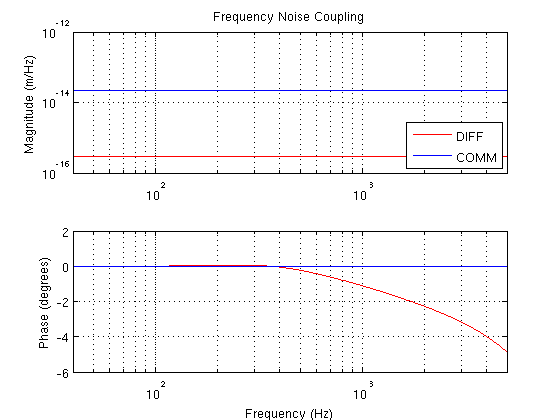
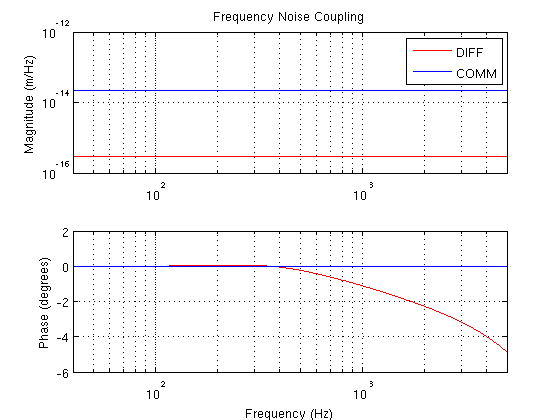
change location of legend in example.

Changed region(s): [[0.7286, 0.3714, 0.9107, 0.4024], [0.8196, 0.1548, 0.9107, 0.1857], [0.8196, 0.3095, 0.85, 0.3405]]

diff --git a/examples/html/exampleMICH.html b/examples/html/exampleMICH.html
@@ -156,7 +156,7 @@ subplot(2,1,1)
 loglog(f,abs(FMtoDIFF),<span class="string">'r'</span>,f,abs(FMtoCOMM),<span class="string">'b'</span>);
 title(<span class="string">'Frequency Noise Coupling'</span>)
 ylabel(<span class="string">'Magnitude (m/Hz)'</span>)
-legend(<span class="string">'DIFF'</span>,<span class="string">'COMM'</span>,<span class="string">'Location'</span>,<span class="string">'SE'</span>)
+legend(<span class="string">'DIFF'</span>,<span class="string">'COMM'</span>)
 xlim([fLow fHigh])
 grid <span class="string">on</span>
 subplot(2,1,2)
@@ -260,7 +260,7 @@ subplot(2,1,1)
 loglog(f,abs(FMtoDIFF),'r',f,abs(FMtoCOMM),'b');
 title('Frequency Noise Coupling')
 ylabel('Magnitude (m/Hz)')
-legend('DIFF','COMM','Location','SE')
+legend('DIFF','COMM')
 xlim([fLow fHigh])
 grid on
 subplot(2,1,2)

diff --git a/examples/exampleMICH.m b/examples/exampleMICH.m
@@ -87,7 +87,7 @@ subplot(2,1,1)
 loglog(f,abs(FMtoDIFF),'r',f,abs(FMtoCOMM),'b');
 title('Frequency Noise Coupling')
 ylabel('Magnitude (m/Hz)')
-legend('DIFF','COMM','Location','SE')
+legend('DIFF','COMM')
 xlim([fLow fHigh])
 grid on
 subplot(2,1,2)
